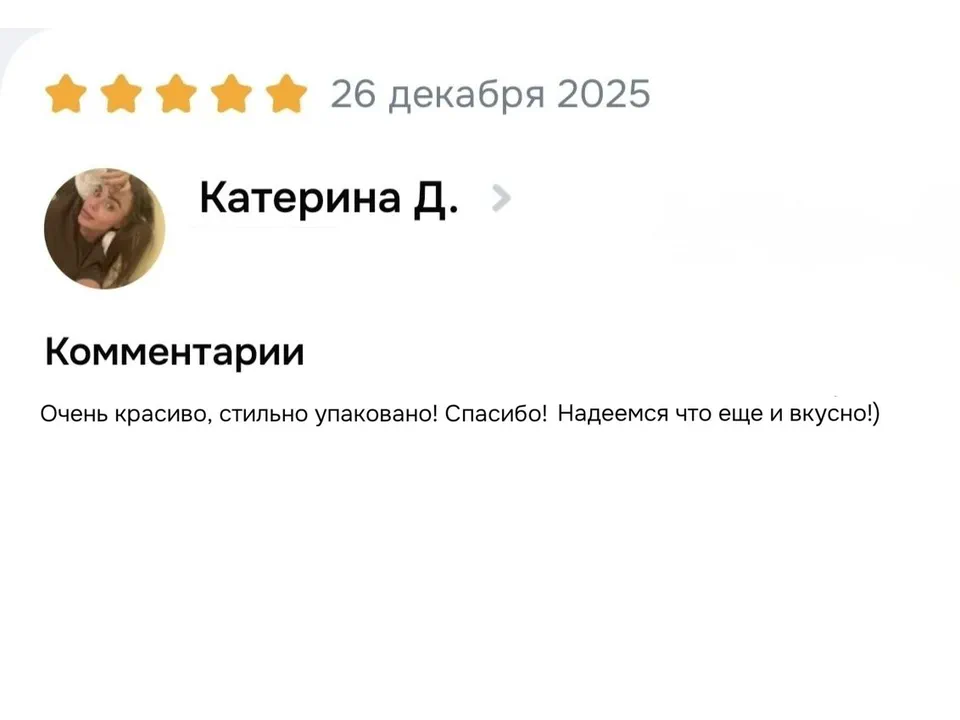
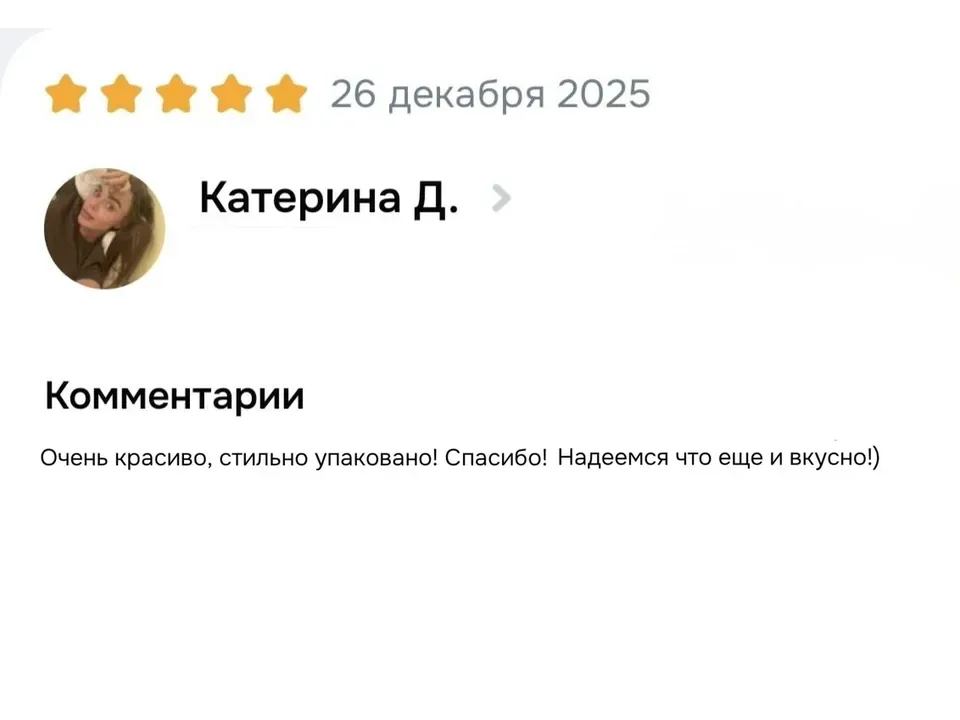
Align spacing in latest customer review

Changed region(s): [[0.0312, 0.4583, 0.9062, 0.6722]]

diff --git a/site.js b/site.js
@@ -1,4 +1,4 @@
-const assetVersion = "20260723-1515";
+const assetVersion = "20260723-1528";
 
 function versionedAsset(source) {
   if (typeof source !== "string" || !source.startsWith("assets/")) return source;

diff --git a/index.html b/index.html
@@ -198,6 +198,6 @@
     </section>
   </div>
 
-  <script src="site.js?v=20260723-1515" defer></script>
+  <script src="site.js?v=20260723-1528" defer></script>
 </body>
 </html>
